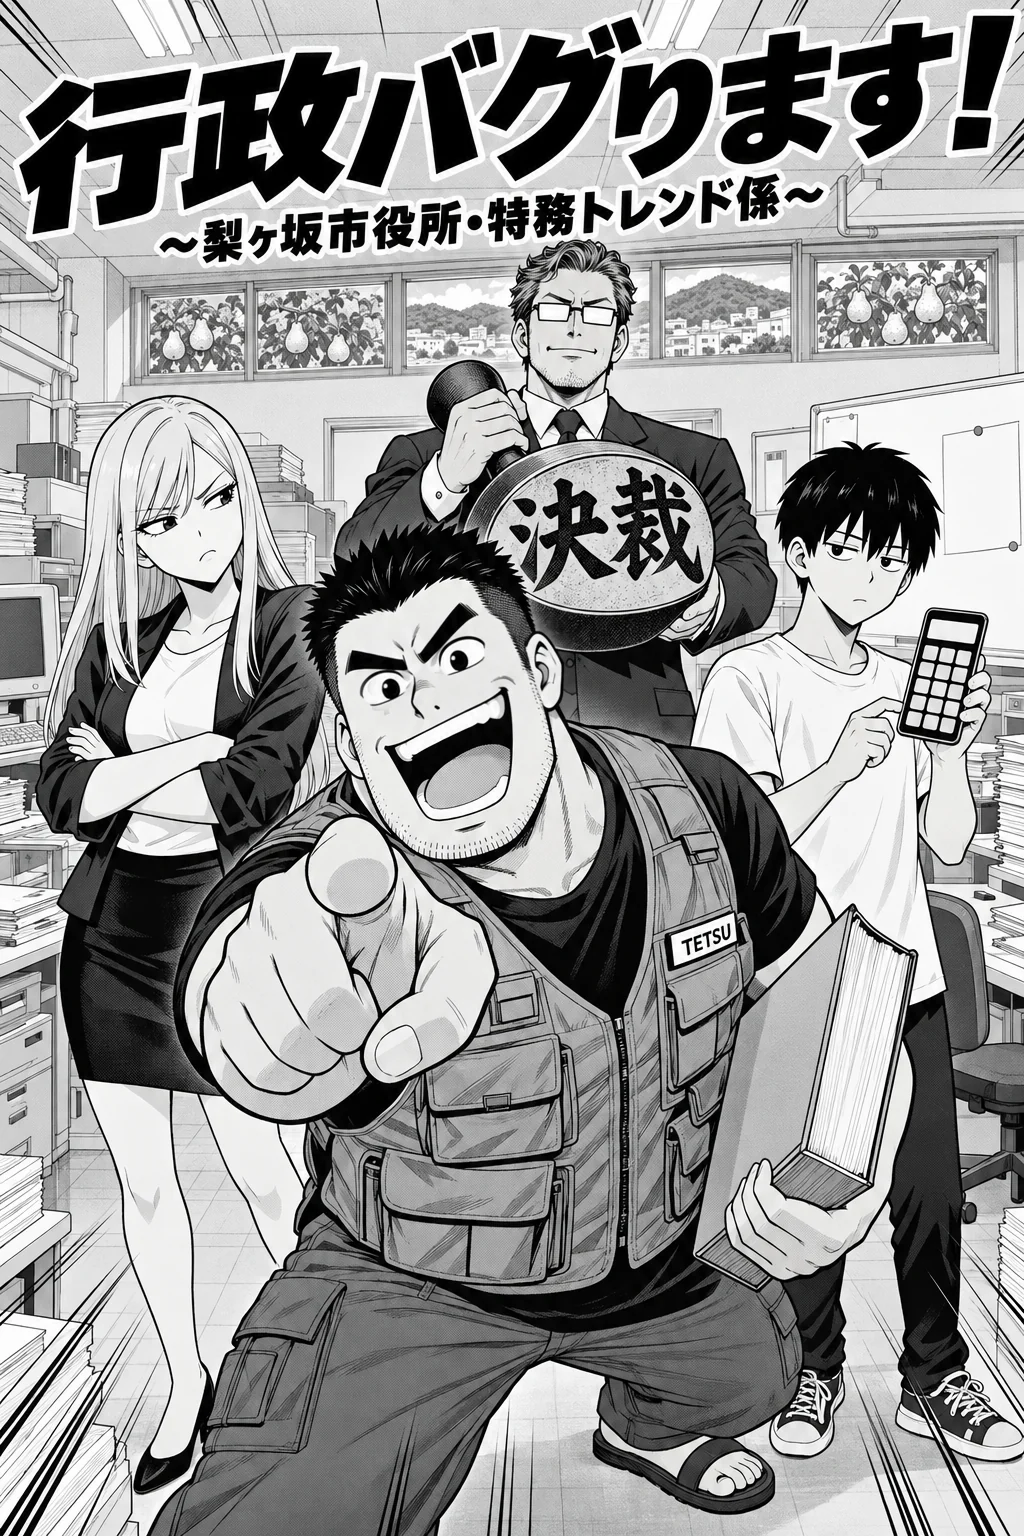
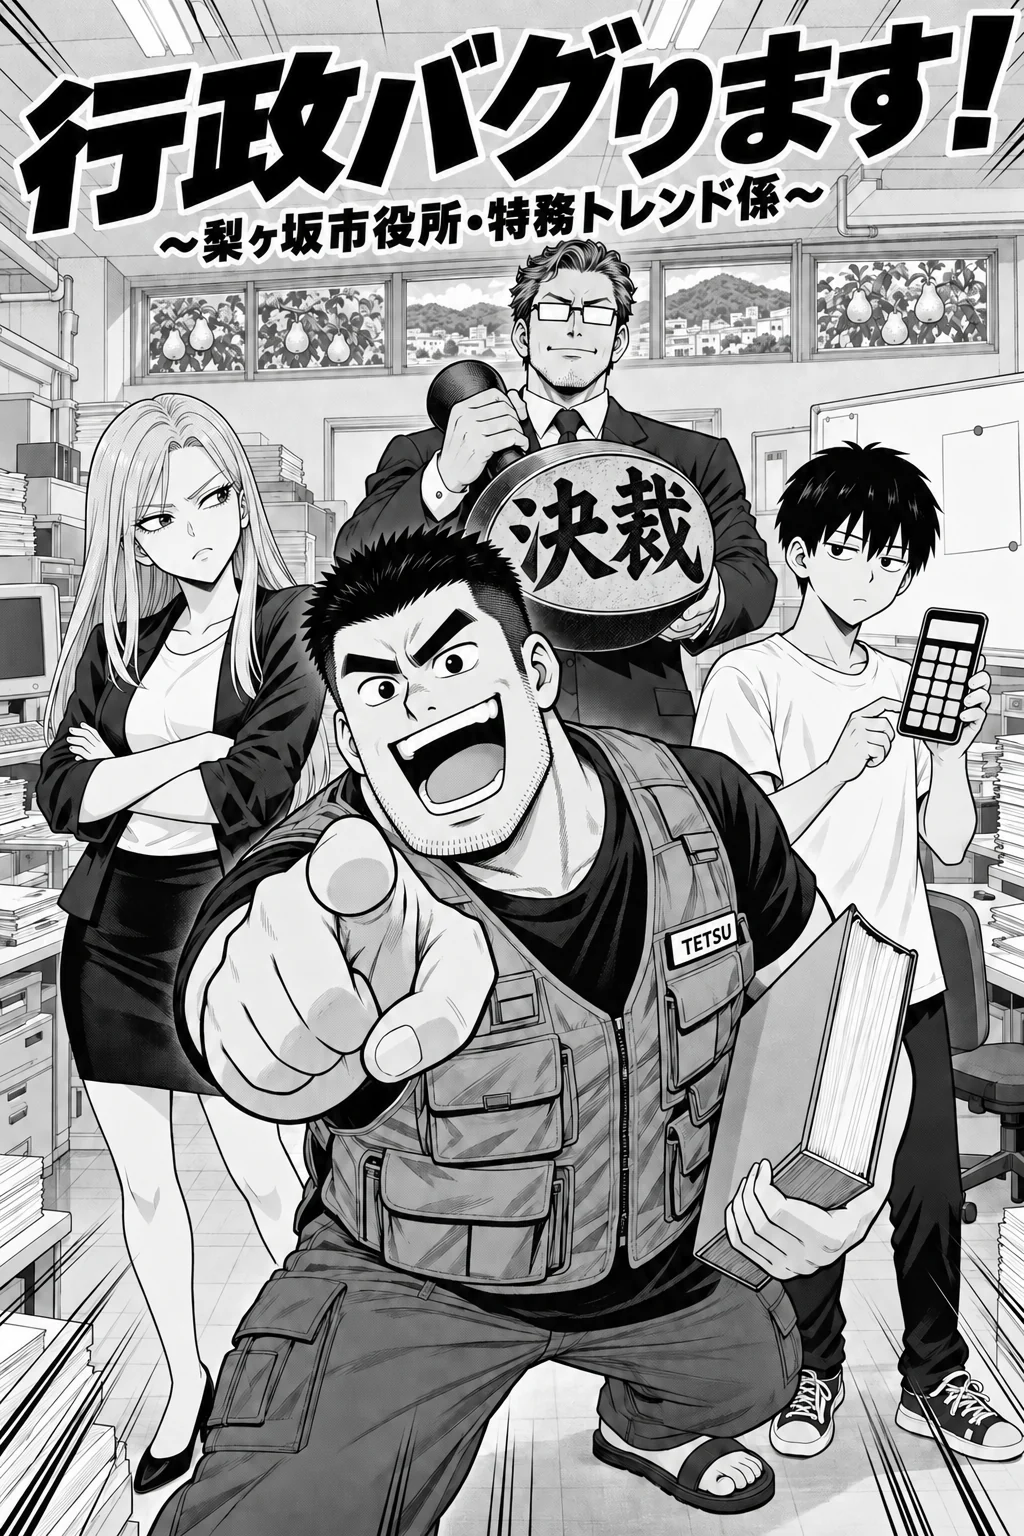
表紙のテツとレナの顔を描き直し、トップの紹介を読者向けに書き換える
- 表紙は題字・構図そのままで、テツとレナの顔だけを採用済みのコマの顔に描き直した
- 「どんな漫画？」（毎話の型）は作り手向けなので外し、「こんな漫画です」（あらすじ＋読みどころ3つ）に
- エピソード一覧の「1話完結なので〜」の一文も外した（読みどころに入れ直し）
- 外した文面はシリーズの 設定/Webリーダーの紹介文.md に控えた

diff --git a/index.html b/index.html
@@ -37,24 +37,25 @@
           </a>
           <a id="cta-latest" class="cta-sub" href="ep/4/" data-latest-link>最新話：「梨ヶ坂名物、つくります」</a>
         </div>
-        <p class="hero-links"><a href="#story">どんな漫画？</a><a href="#characters">登場人物</a><a href="#episodes-title">エピソード一覧</a></p>
+        <p class="hero-links"><a href="#story">あらすじ</a><a href="#characters">登場人物</a><a href="#episodes-title">エピソード一覧</a></p>
       </div>
     </div>
   </header>
 
   <main>
-    <!-- 2. どんな漫画か（毎話の流れ） -->
+    <!-- 2. どんな話か（読む人に向けて） -->
     <section id="story" class="section">
       <div class="wrap">
-        <h2 class="section-title">どんな漫画？</h2>
-        <p class="section-lead">舞台は、梨畑と坂の町・梨ヶ坂市。その市役所の地下に、予算も権限もない「特務トレンド係」がある。毎回、だいたいこうなります。</p>
-        <ol class="flow">
-          <li><span class="flow-num">1</span><strong>困りごとが来る</strong><span>市民の悩みや、役所の理不尽な手続きが持ち込まれる。</span></li>
-          <li><span class="flow-num">2</span><strong>テツが儲け話を嗅ぎつける</strong><span>目が「＄」になったら、もう止まらない。</span></li>
-          <li><span class="flow-num">3</span><strong>一夜漬けで暴走する</strong><span>制度や最新の技術を徹夜で覚え、力技で回して、やりすぎる。</span></li>
-          <li class="flow-don"><span class="flow-num">4</span><strong>課長の決裁印「ドン」</strong><span>最後は豪徳寺課長が、静かな丁寧語と巨大な判子で終わらせる。</span></li>
-        </ol>
-        <p class="flow-after">……でも、市民の困りごとは、なぜか片づいている。テツの儲けだけが消えている。<br>読み終わると、行政の仕組みがひとつ分かります。</p>
+        <h2 class="section-title">こんな漫画です</h2>
+        <p class="story-lead">梨ヶ坂市役所の地下に、予算も権限もない「特務トレンド係」がある。<br>
+        そこにいるのは、金と昼寝のことしか頭にない公務員・<strong>源田テツ</strong>。</p>
+        <p class="story-lead">市民の困りごとが持ち込まれるたび、テツは儲けのにおいを嗅ぎつけて暴走し、最後は課長の決裁印で叩き落とされる。<br>
+        それでもなぜか、困りごとだけは片づいている――。</p>
+        <ul class="points">
+          <li><strong>1話5分</strong>どの話から読んでも大丈夫。読み切りです。</li>
+          <li><strong>笑って、ひとつ分かる</strong>読み終わると、行政のしくみがひとつ身につきます。</li>
+          <li><strong>全部無料</strong>登録もログインも要りません。</li>
+        </ul>
       </div>
     </section>
 
@@ -107,7 +108,6 @@
     <section class="section">
       <div class="wrap">
         <h2 id="episodes-title" class="section-title">エピソード</h2>
-        <p class="section-lead">1話完結なので、どの話から読んでも大丈夫です。</p>
         <ul id="episodes" class="episodes" aria-live="polite">
           <li class="episode-empty">読み込み中…</li>
         </ul>

diff --git a/assets/style.css b/assets/style.css
@@ -73,21 +73,12 @@ body { margin: 0; background: var(--bg); color: var(--fg); line-height: 1.7; }
 .section-sub { background: var(--bg-sub); }
 .section-lead { margin: 0 0 20px; color: var(--fg-sub); font-size: 15px; }
 
-/* どんな漫画？：毎話の流れ */
-.flow { list-style: none; margin: 0; padding: 0; display: grid; grid-template-columns: repeat(4, 1fr); gap: 12px; counter-reset: none; }
-.flow li {
-  position: relative; display: flex; flex-direction: column; gap: 6px;
-  background: var(--card-bg); border: 2px solid var(--fg); border-radius: 4px; padding: 16px 14px 14px;
-}
-.flow li:not(:last-child)::after {
-  content: ""; position: absolute; right: -11px; top: 50%; width: 10px; height: 10px;
-  border-top: 2px solid var(--fg); border-right: 2px solid var(--fg); transform: translateY(-50%) rotate(45deg);
-}
-.flow-num { font-family: "Dela Gothic One", sans-serif; font-size: 28px; line-height: 1; color: var(--primary); }
-.flow strong { font-size: 16px; line-height: 1.4; }
-.flow li > span:last-child { font-size: 14px; color: var(--fg-sub); }
-.flow-don { background-image: radial-gradient(rgba(31, 91, 140, .16) 1.2px, transparent 1.3px) !important; background-size: 8px 8px !important; }
-.flow-after { margin: 20px 0 0; font-size: 15px; }
+/* こんな漫画です：読む人に向けた紹介 */
+.story-lead { margin: 0 0 16px; font-size: 16px; line-height: 1.9; }
+.story-lead strong { font-weight: 700; }
+.points { list-style: none; margin: 24px 0 0; padding: 0; display: grid; grid-template-columns: repeat(3, 1fr); gap: 14px; }
+.points li { background: var(--card-bg); border: 1px solid var(--line); border-left: 4px solid var(--primary); border-radius: 8px; padding: 14px 16px; font-size: 14px; color: var(--fg-sub); }
+.points strong { display: block; margin-bottom: 4px; font-size: 16px; color: var(--fg); }
 
 /* 登場人物 */
 .charas { list-style: none; margin: 0; padding: 0; display: grid; grid-template-columns: repeat(2, 1fr); gap: 16px; }
@@ -138,8 +129,7 @@ a:focus-visible { outline: 2px solid var(--accent); outline-offset: 3px; }
   .cta-row { justify-content: center; }
   .logo { font-size: clamp(30px, 9.4vw, 52px); }
   .hero-links { justify-content: center; }
-  .flow { grid-template-columns: 1fr 1fr; }
-  .flow li:nth-child(2)::after { display: none; }
+  .points { grid-template-columns: 1fr; }
   .charas { grid-template-columns: 1fr; }
 }
 @media (max-width: 560px) {
